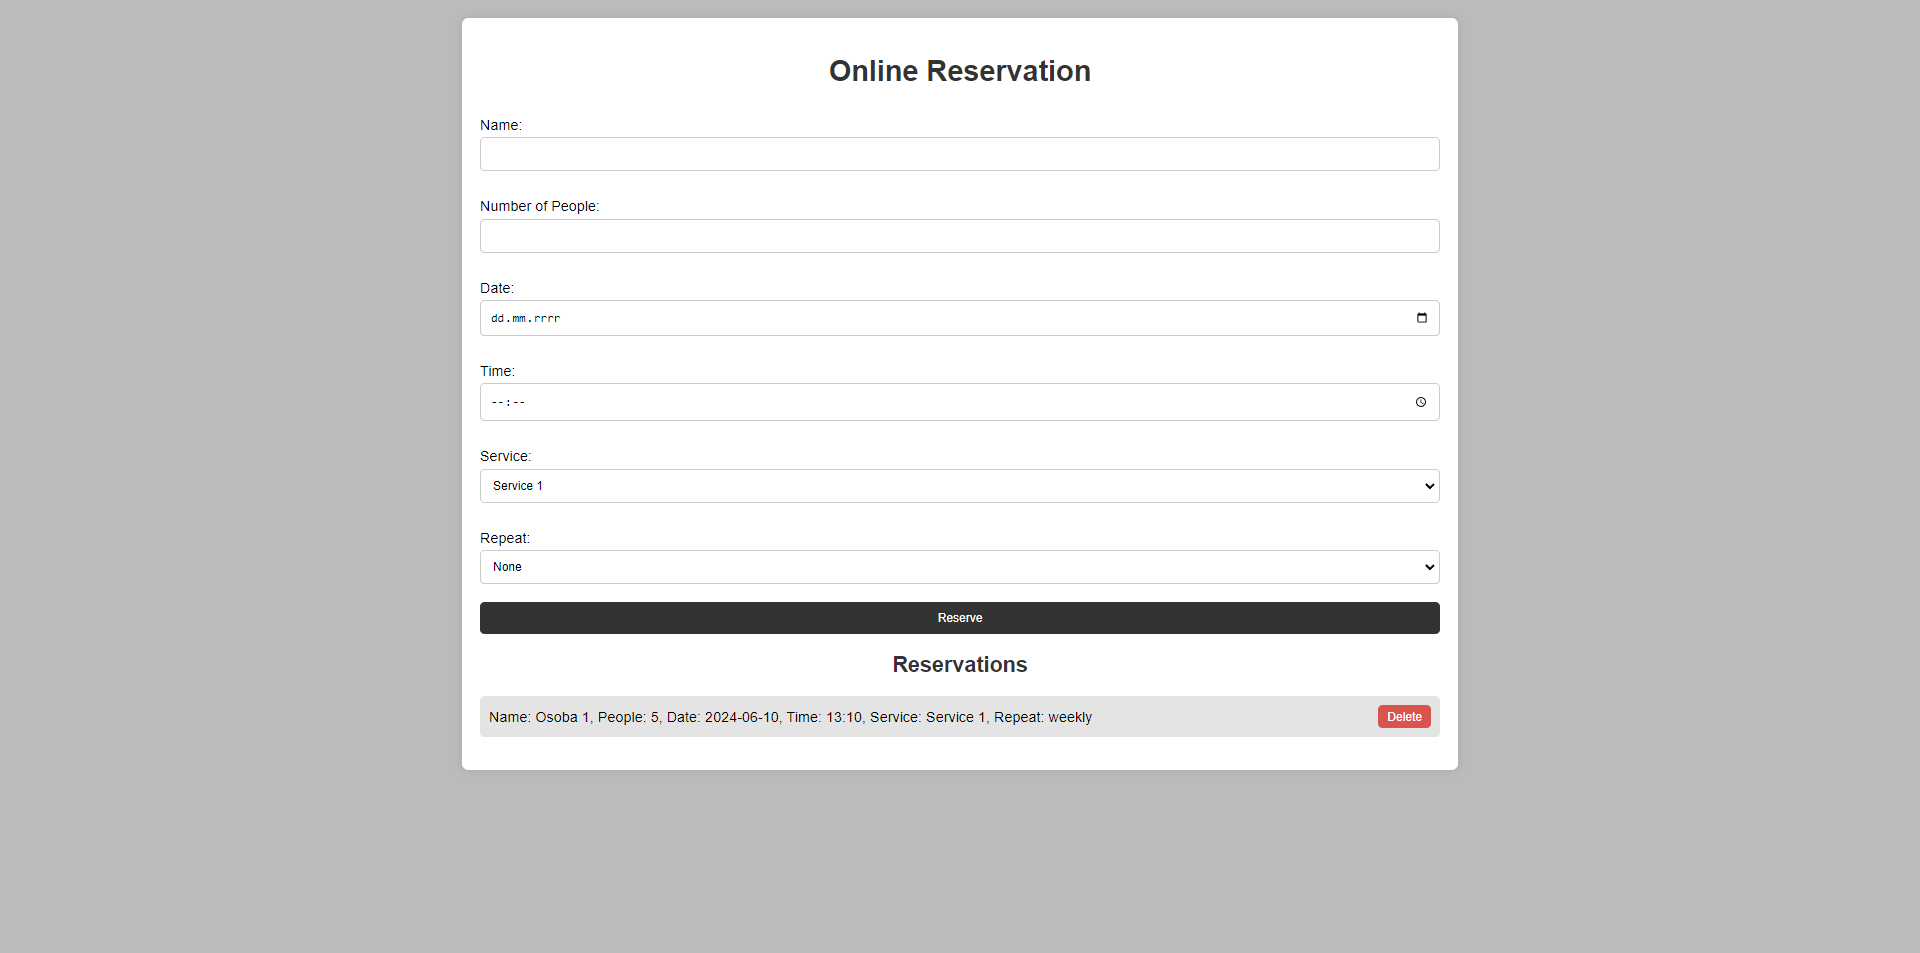
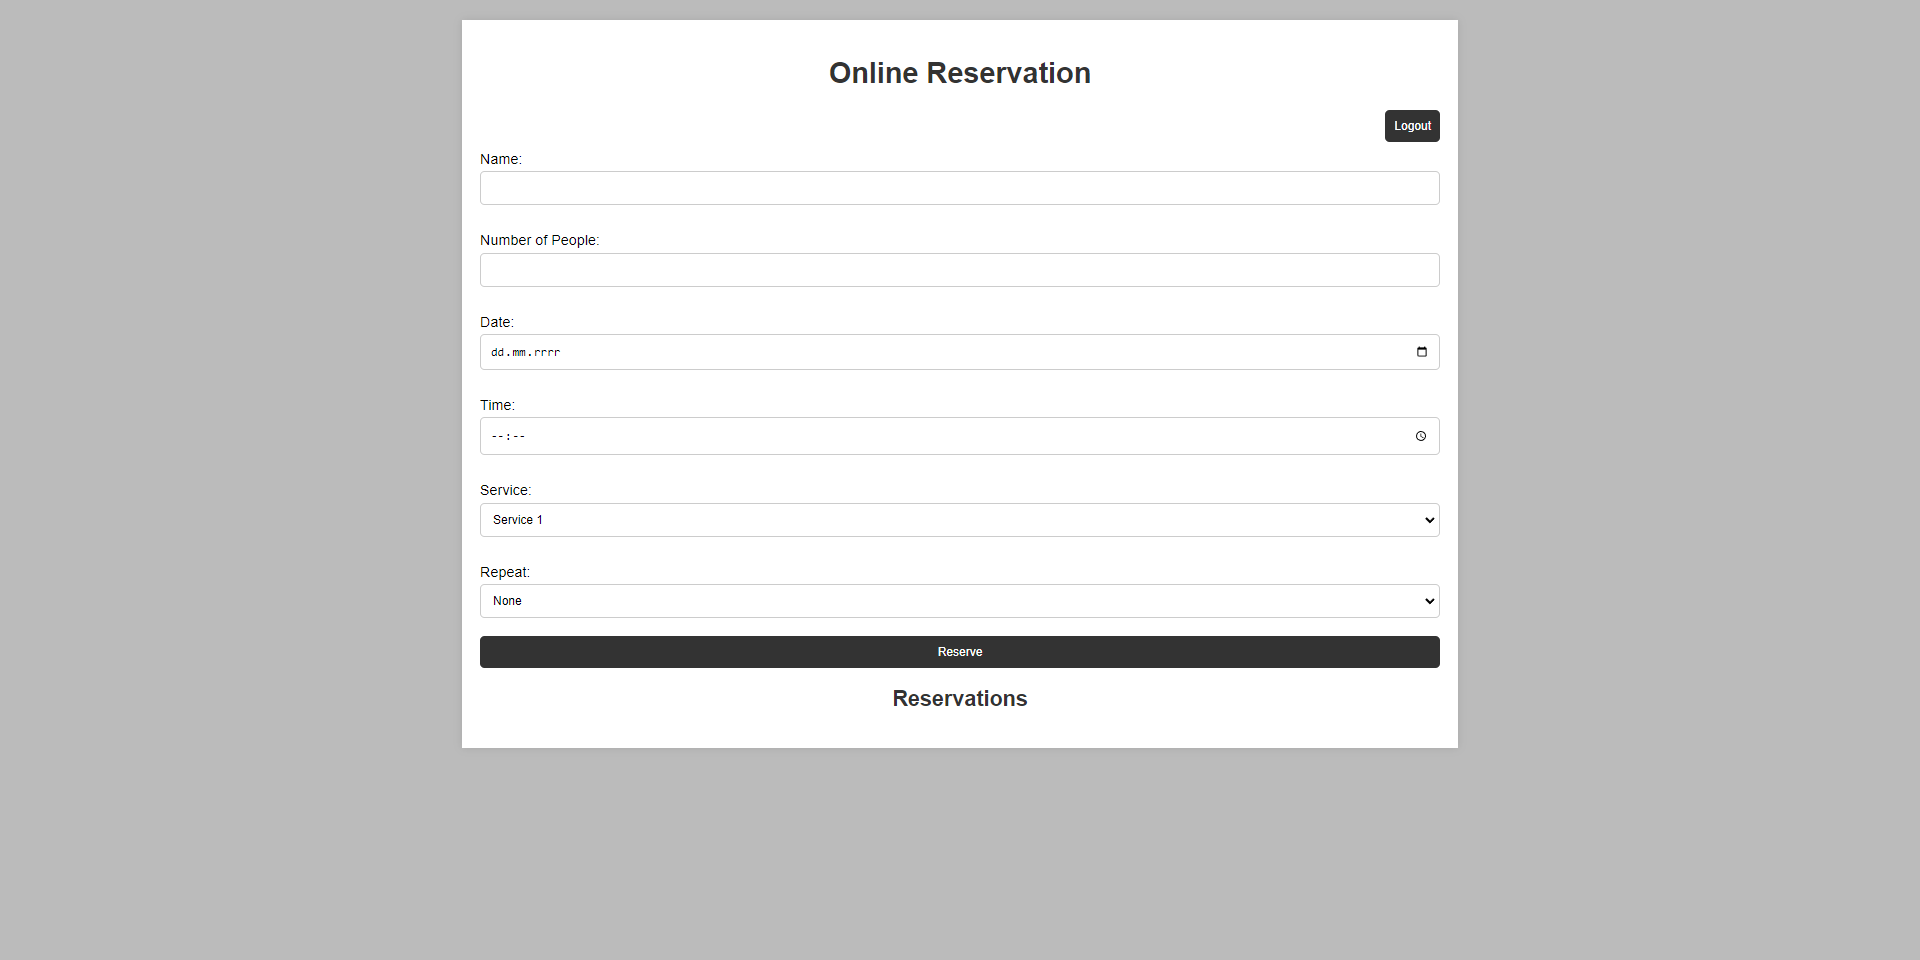
Add files via upload

diff --git a/index.html b/index.html
@@ -9,37 +9,66 @@
 <body>
     <div class="container">
         <h1>Online Reservation</h1>
-        <form id="reservationForm">
-            <label for="name">Name:</label>
-            <input type="text" id="name" name="name" required>
-            
-            <label for="peopleCount">Number of People:</label>
-            <input type="number" id="peopleCount" name="peopleCount" required min="1">
-            
-            <label for="date">Date:</label>
-            <input type="date" id="date" name="date" required>
-            
-            <label for="time">Time:</label>
-            <input type="time" id="time" name="time" required>
+        <div id="authSection">
+            <form id="loginForm">
+                <h2>Login</h2>
+                <label for="loginUsername">Username:</label>
+                <input type="text" id="loginUsername" name="username" required>
+                
+                <label for="loginPassword">Password:</label>
+                <input type="password" id="loginPassword" name="password" required>
+                
+                <button type="submit">Login</button>
+            </form>
 
-            <label for="service">Service:</label>
-            <select id="service" name="service" required>
-                <option value="Service 1">Service 1</option>
-                <option value="Service 2">Service 2</option>
-                <option value="Service 3">Service 3</option>
-            </select>
+            <form id="registerForm">
+                <h2>Register</h2>
+                <label for="registerUsername">Username:</label>
+                <input type="text" id="registerUsername" name="username" required>
+                
+                <label for="registerPassword">Password:</label>
+                <input type="password" id="registerPassword" name="password" required>
+                
+                <button type="submit">Register</button>
+            </form>
+        </div>
 
-            <label for="repeat">Repeat:</label>
-            <select id="repeat" name="repeat">
-                <option value="none">None</option>
-                <option value="weekly">Weekly</option>
-                <option value="monthly">Monthly</option>
-            </select>
-            
-            <button type="submit">Reserve</button>
-        </form>
-        <h2>Reservations</h2>
-        <ul id="reservationsList"></ul>
+        <div id="reservationSection" style="display:none;">
+            <div style="display: flex; justify-content: end;">
+                <button id="logoutButton">Logout</button>
+            </div>
+            <form id="reservationForm">
+                <label for="name">Name:</label>
+                <input type="text" id="name" name="name" required>
+                
+                <label for="peopleCount">Number of People:</label>
+                <input type="number" id="peopleCount" name="peopleCount" required min="1">
+                
+                <label for="date">Date:</label>
+                <input type="date" id="date" name="date" required>
+                
+                <label for="time">Time:</label>
+                <input type="time" id="time" name="time" required>
+    
+                <label for="service">Service:</label>
+                <select id="service" name="service" required>
+                    <option value="Service 1">Service 1</option>
+                    <option value="Service 2">Service 2</option>
+                    <option value="Service 3">Service 3</option>
+                </select>
+    
+                <label for="repeat">Repeat:</label>
+                <select id="repeat" name="repeat">
+                    <option value="none">None</option>
+                    <option value="weekly">Weekly</option>
+                    <option value="monthly">Monthly</option>
+                </select>
+                
+                <button type="submit">Reserve</button>
+            </form>
+            <h2>Reservations</h2>
+            <ul id="reservationsList"></ul>
+        </div>
     </div>
     <script src="script.js"></script>
 </body>

diff --git a/script.js b/script.js
@@ -1,8 +1,52 @@
 document.addEventListener('DOMContentLoaded', () => {
-    const form = document.getElementById('reservationForm');
+    const loginForm = document.getElementById('loginForm');
+    const registerForm = document.getElementById('registerForm');
+    const reservationForm = document.getElementById('reservationForm');
     const reservationsList = document.getElementById('reservationsList');
+    const authSection = document.getElementById('authSection');
+    const reservationSection = document.getElementById('reservationSection');
+    const logoutButton = document.getElementById('logoutButton');
 
-    form.addEventListener('submit', (e) => {
+    let currentUser = localStorage.getItem('currentUser');
+
+    if (currentUser) {
+        showReservationSection();
+    } else {
+        showAuthSection();
+    }
+
+    registerForm.addEventListener('submit', (e) => {
+        e.preventDefault();
+        const username = document.getElementById('registerUsername').value;
+        const password = document.getElementById('registerPassword').value;
+
+        let users = JSON.parse(localStorage.getItem('users')) || {};
+        if (users[username]) {
+            alert('User already exists.');
+            return;
+        }
+
+        users[username] = password;
+        localStorage.setItem('users', JSON.stringify(users));
+        alert('Registration successful. You can now login.');
+        registerForm.reset();
+    });
+
+    loginForm.addEventListener('submit', (e) => {
+        e.preventDefault();
+        const username = document.getElementById('loginUsername').value;
+        const password = document.getElementById('loginPassword').value;
+
+        let users = JSON.parse(localStorage.getItem('users')) || {};
+        if (users[username] && users[username] === password) {
+            localStorage.setItem('currentUser', username);
+            showReservationSection();
+        } else {
+            alert('Invalid username or password.');
+        }
+    });
+
+    reservationForm.addEventListener('submit', (e) => {
         e.preventDefault();
         
         const name = document.getElementById('name').value;
@@ -19,7 +63,12 @@ document.addEventListener('DOMContentLoaded', () => {
         localStorage.setItem('reservations', JSON.stringify(reservations));
         
         displayReservations();
-        form.reset();
+        reservationForm.reset();
+    });
+
+    logoutButton.addEventListener('click', () => {
+        localStorage.removeItem('currentUser');
+        showAuthSection();
     });
 
     function displayReservations() {
@@ -42,5 +91,14 @@ document.addEventListener('DOMContentLoaded', () => {
         displayReservations();
     };
 
-    displayReservations();
+    function showAuthSection() {
+        authSection.style.display = 'block';
+        reservationSection.style.display = 'none';
+    }
+
+    function showReservationSection() {
+        authSection.style.display = 'none';
+        reservationSection.style.display = 'block';
+        displayReservations();
+    }
 });

diff --git a/ui.css b/ui.css
@@ -13,7 +13,6 @@ body {
     background: #fff;
     margin-top: 30px;
     box-shadow: 0 0 10px rgba(0, 0, 0, 0.1);
-    border-radius: 7px;
 }
 
 h1, h2 {
@@ -77,4 +76,8 @@ li button {
 
 li button:hover {
     background: #c9302c;
+}
+
+#authSection, #reservationSection {
+    margin-bottom: 20px;
 }
